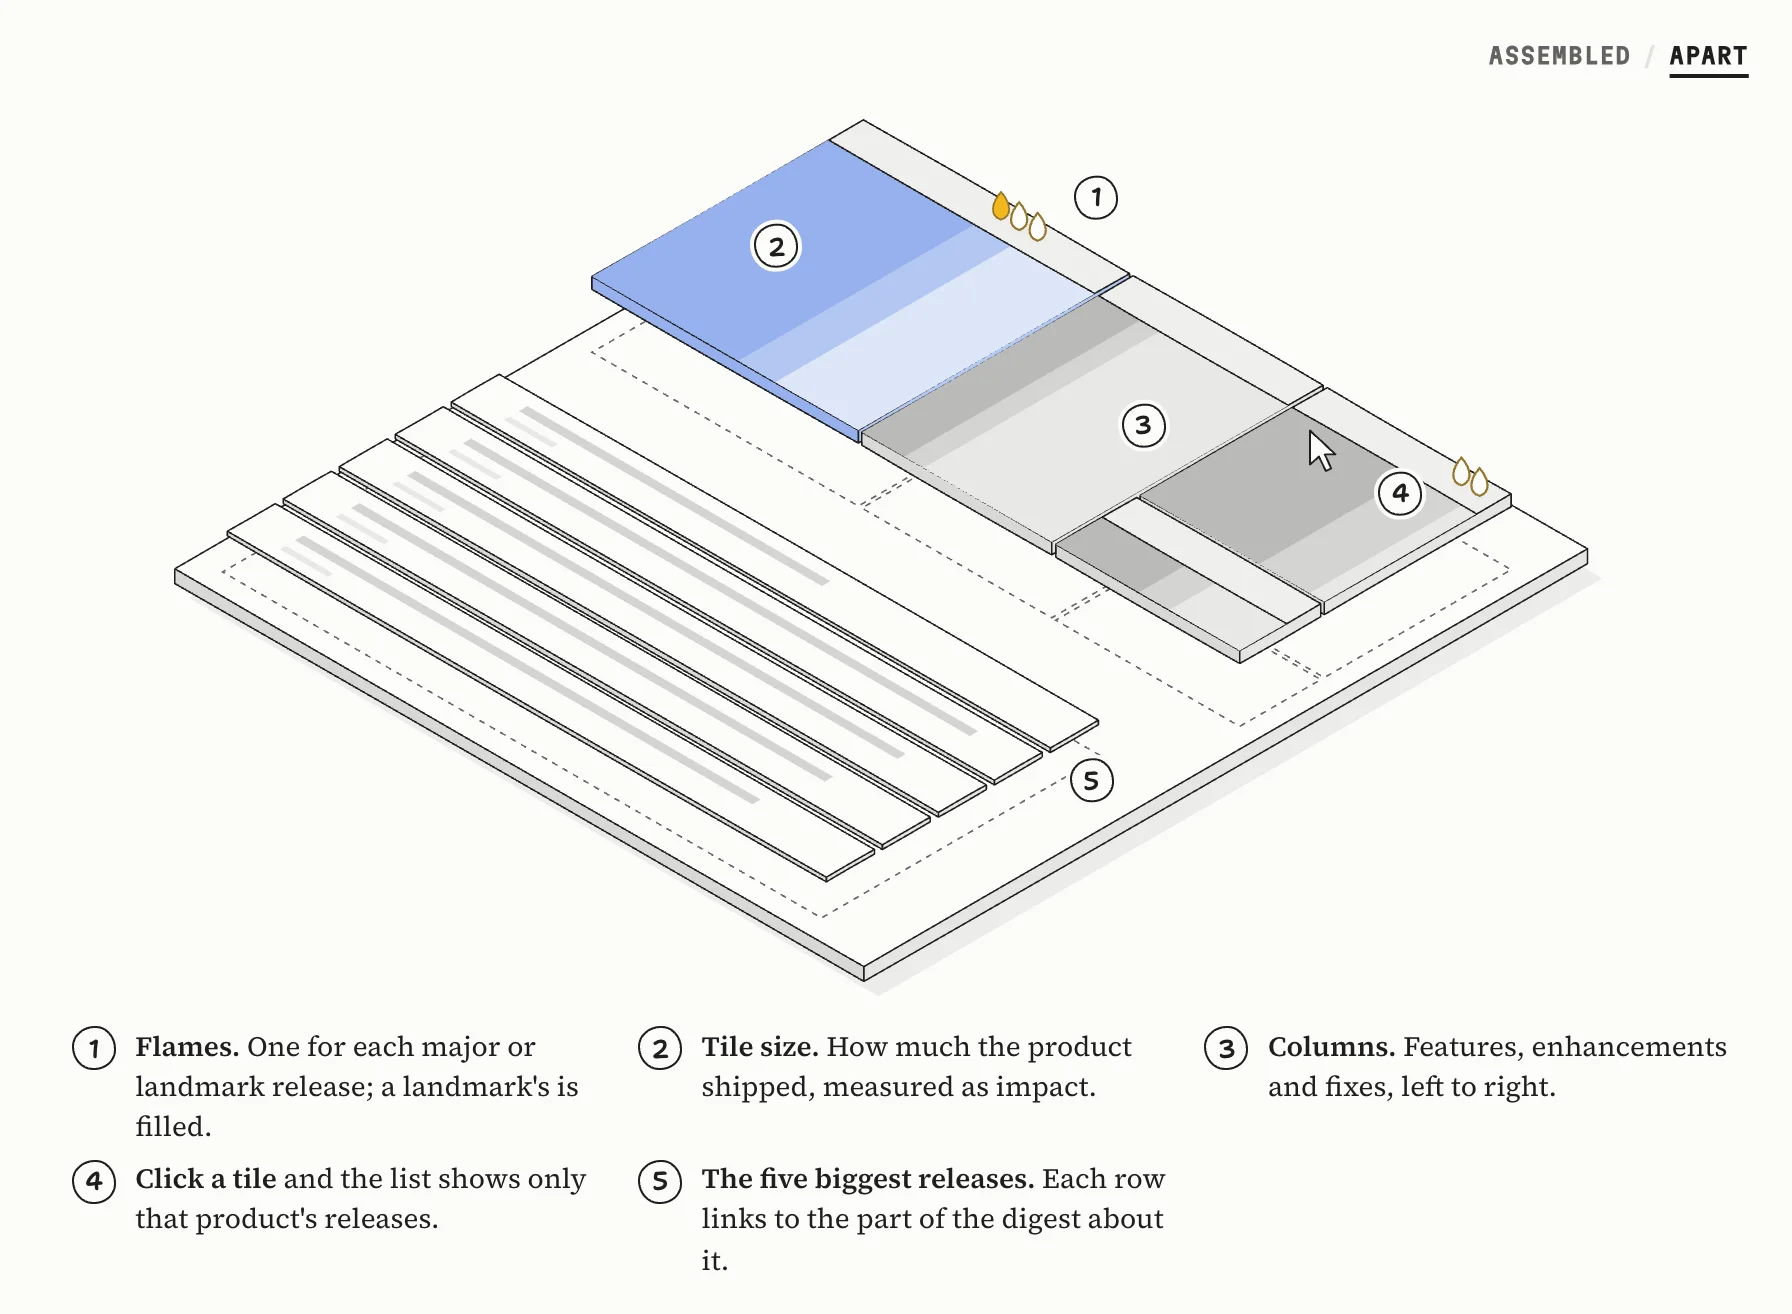
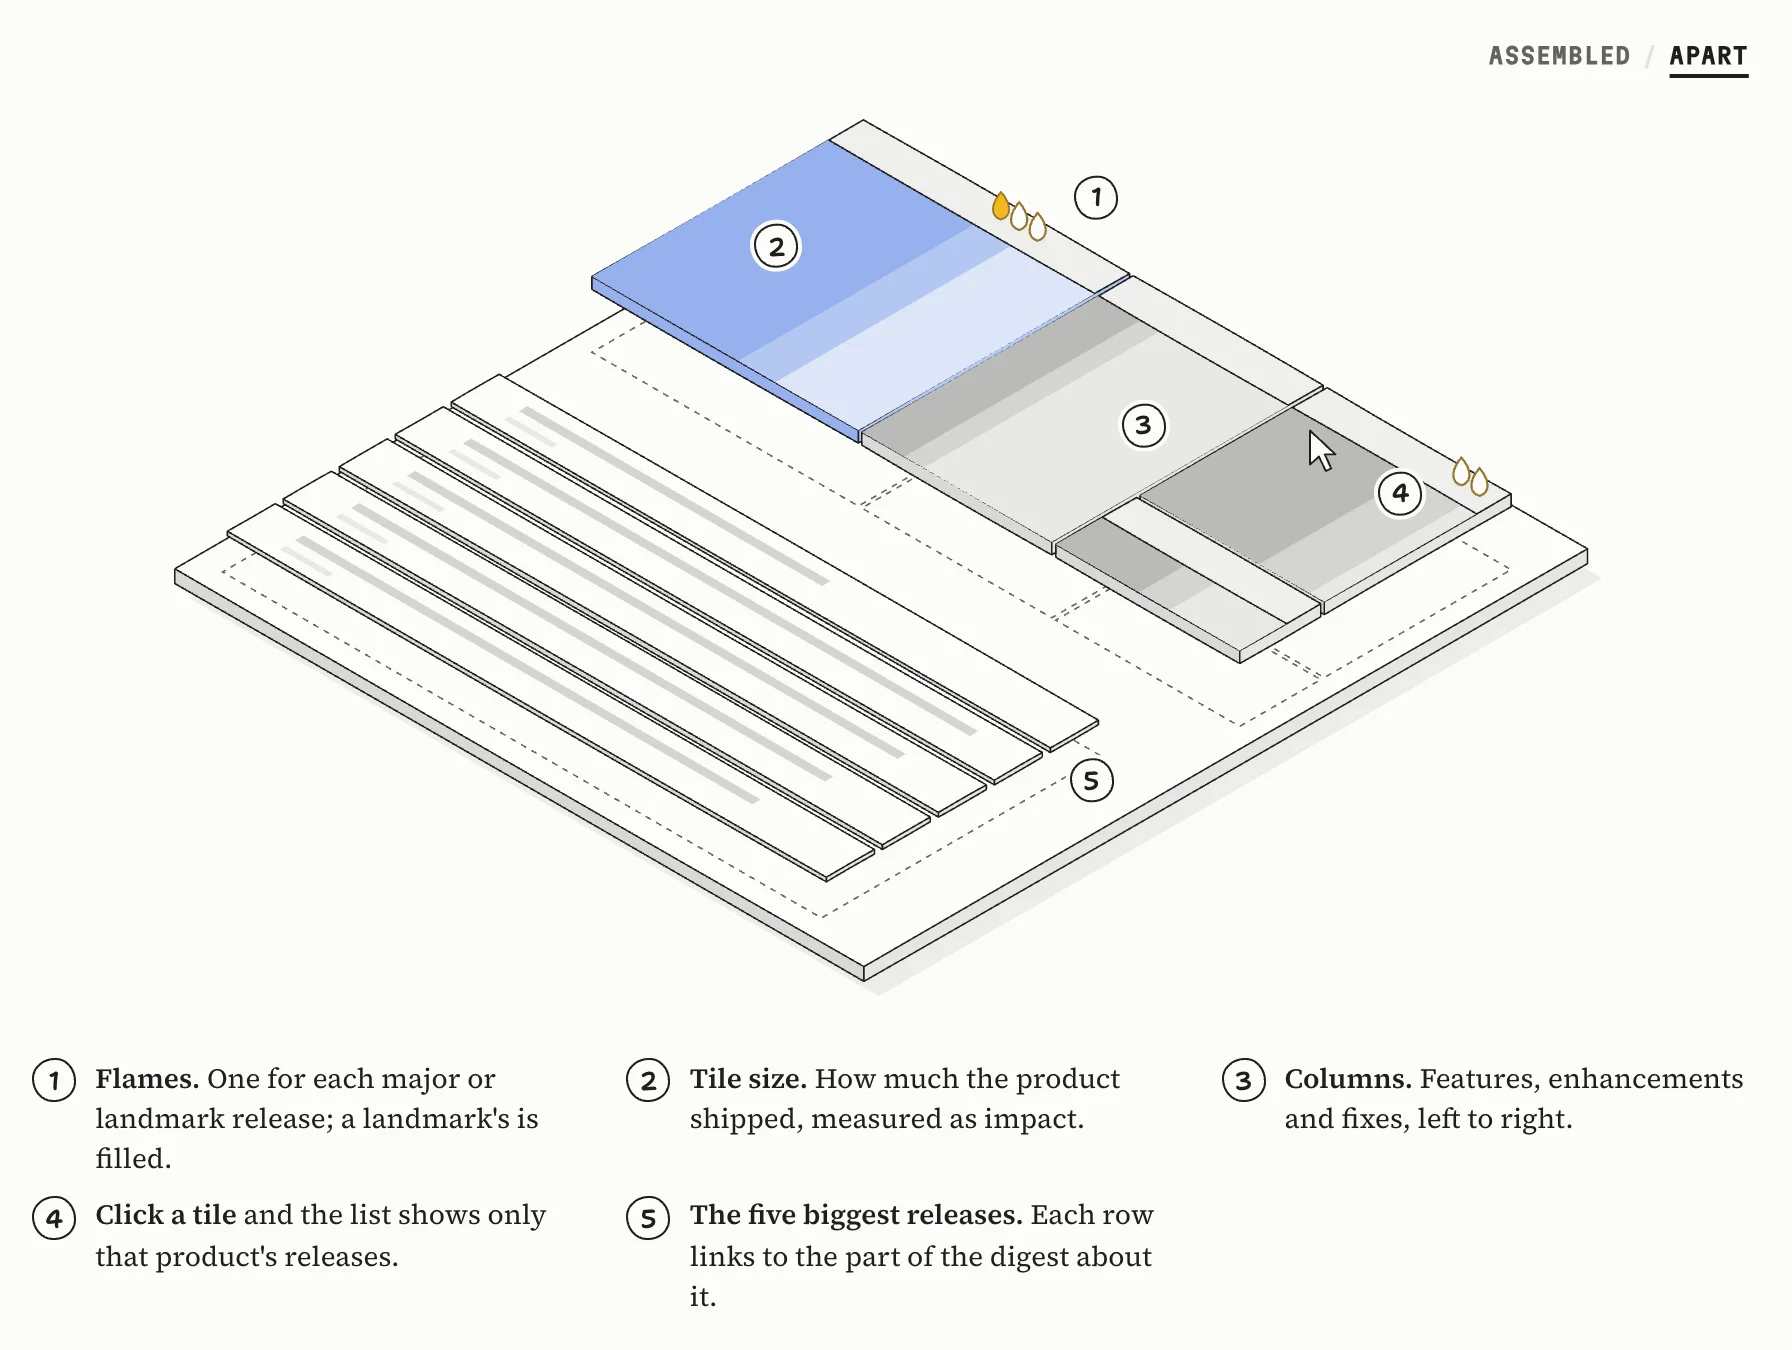
Give the keyed legend its own spacing back from the chapter list rule

diff --git a/assets/components.html b/assets/components.html
@@ -137,7 +137,7 @@ h1 {
   .ch h2 { position: relative; }
   .ch h2 .n { position: absolute; right: calc(100% + 1rem); top: 0.45rem; }
 }
-.ch ul, .ch ol:not(.timeline):not(.steps) { margin-block: 0; padding-left: 1.25rem; display: grid; gap: 0.35rem; }
+.ch ul, .ch ol:not(.timeline):not(.steps):not(.keys) { margin-block: 0; padding-left: 1.25rem; display: grid; gap: 0.35rem; }
 
 /* ── figures (shared) ───────────────────────────────── */
 /* A figure gets more room above and below than a paragraph, so it reads as its own block. Its caption
@@ -449,7 +449,7 @@ figcaption a { color: inherit; }
   .hs .tip, .hs.left .tip { top: calc(100% + 2px); left: 50%; right: auto; max-width: min(15rem, 86cqw); transform: translateX(calc(-1 * var(--x))); }
 }
 .hs:is(:hover, :focus-visible) { z-index: 3; }
-.keys { list-style: none; margin: 0.9rem 0 0; padding: 0; display: grid; grid-template-columns: repeat(auto-fit, minmax(15rem, 1fr)); gap: 0.5rem 1.75rem; counter-reset: key; font: 0.875rem/1.45 var(--font-display); }
+.keys { list-style: none; margin: 1rem 0 0; padding: 0; display: grid; grid-template-columns: repeat(auto-fit, minmax(15rem, 1fr)); gap: 0.5rem 1.75rem; counter-reset: key; font: 0.875rem/1.45 var(--font-display); }
 .keys li { counter-increment: key; display: grid; grid-template-columns: 22px minmax(0, 1fr); gap: 0.6rem; align-items: start; margin: -0.25rem -0.4rem; padding: 0.25rem 0.4rem; border-radius: 6px; transition: background 0.15s; }
 .keys li::before { content: attr(data-k); margin-top: 0.05rem; }
 .keys li.on { background: color-mix(in oklab, var(--mark) 9%, var(--paper)); }

diff --git a/assets/template.html b/assets/template.html
@@ -151,7 +151,7 @@ h1 {
   .ch h2 { position: relative; }
   .ch h2 .n { position: absolute; right: calc(100% + 1rem); top: 0.45rem; }
 }
-.ch ul, .ch ol:not(.timeline):not(.steps) { margin-block: 0; padding-left: 1.25rem; display: grid; gap: 0.35rem; }
+.ch ul, .ch ol:not(.timeline):not(.steps):not(.keys) { margin-block: 0; padding-left: 1.25rem; display: grid; gap: 0.35rem; }
 
 /* ── figures (shared) ───────────────────────────────── */
 /* A figure gets more room above and below than a paragraph, so it reads as its own block. Its caption
@@ -463,7 +463,7 @@ figcaption a { color: inherit; }
   .hs .tip, .hs.left .tip { top: calc(100% + 2px); left: 50%; right: auto; max-width: min(15rem, 86cqw); transform: translateX(calc(-1 * var(--x))); }
 }
 .hs:is(:hover, :focus-visible) { z-index: 3; }
-.keys { list-style: none; margin: 0.9rem 0 0; padding: 0; display: grid; grid-template-columns: repeat(auto-fit, minmax(15rem, 1fr)); gap: 0.5rem 1.75rem; counter-reset: key; font: 0.875rem/1.45 var(--font-display); }
+.keys { list-style: none; margin: 1rem 0 0; padding: 0; display: grid; grid-template-columns: repeat(auto-fit, minmax(15rem, 1fr)); gap: 0.5rem 1.75rem; counter-reset: key; font: 0.875rem/1.45 var(--font-display); }
 .keys li { counter-increment: key; display: grid; grid-template-columns: 22px minmax(0, 1fr); gap: 0.6rem; align-items: start; margin: -0.25rem -0.4rem; padding: 0.25rem 0.4rem; border-radius: 6px; transition: background 0.15s; }
 .keys li::before { content: attr(data-k); margin-top: 0.05rem; }
 .keys li.on { background: color-mix(in oklab, var(--mark) 9%, var(--paper)); }

diff --git a/examples/weekly-digests/post-field-notes.html b/examples/weekly-digests/post-field-notes.html
@@ -136,7 +136,7 @@ h1 {
   .ch h2 { position: relative; }
   .ch h2 .n { position: absolute; right: calc(100% + 1rem); top: 0.45rem; }
 }
-.ch ul, .ch ol:not(.timeline):not(.steps) { margin-block: 0; padding-left: 1.25rem; display: grid; gap: 0.35rem; }
+.ch ul, .ch ol:not(.timeline):not(.steps):not(.keys) { margin-block: 0; padding-left: 1.25rem; display: grid; gap: 0.35rem; }
 
 /* ── figures (shared) ───────────────────────────────── */
 /* A figure gets more room above and below than a paragraph, so it reads as its own block. Its caption
@@ -448,7 +448,7 @@ figcaption a { color: inherit; }
   .hs .tip, .hs.left .tip { top: calc(100% + 2px); left: 50%; right: auto; max-width: min(15rem, 86cqw); transform: translateX(calc(-1 * var(--x))); }
 }
 .hs:is(:hover, :focus-visible) { z-index: 3; }
-.keys { list-style: none; margin: 0.9rem 0 0; padding: 0; display: grid; grid-template-columns: repeat(auto-fit, minmax(15rem, 1fr)); gap: 0.5rem 1.75rem; counter-reset: key; font: 0.875rem/1.45 var(--font-display); }
+.keys { list-style: none; margin: 1rem 0 0; padding: 0; display: grid; grid-template-columns: repeat(auto-fit, minmax(15rem, 1fr)); gap: 0.5rem 1.75rem; counter-reset: key; font: 0.875rem/1.45 var(--font-display); }
 .keys li { counter-increment: key; display: grid; grid-template-columns: 22px minmax(0, 1fr); gap: 0.6rem; align-items: start; margin: -0.25rem -0.4rem; padding: 0.25rem 0.4rem; border-radius: 6px; transition: background 0.15s; }
 .keys li::before { content: attr(data-k); margin-top: 0.05rem; }
 .keys li.on { background: color-mix(in oklab, var(--mark) 9%, var(--paper)); }

diff --git a/examples/weekly-digests/post.html b/examples/weekly-digests/post.html
@@ -136,7 +136,7 @@ h1 {
   .ch h2 { position: relative; }
   .ch h2 .n { position: absolute; right: calc(100% + 1rem); top: 0.45rem; }
 }
-.ch ul, .ch ol:not(.timeline):not(.steps) { margin-block: 0; padding-left: 1.25rem; display: grid; gap: 0.35rem; }
+.ch ul, .ch ol:not(.timeline):not(.steps):not(.keys) { margin-block: 0; padding-left: 1.25rem; display: grid; gap: 0.35rem; }
 
 /* ── figures (shared) ───────────────────────────────── */
 /* A figure gets more room above and below than a paragraph, so it reads as its own block. Its caption
@@ -448,7 +448,7 @@ figcaption a { color: inherit; }
   .hs .tip, .hs.left .tip { top: calc(100% + 2px); left: 50%; right: auto; max-width: min(15rem, 86cqw); transform: translateX(calc(-1 * var(--x))); }
 }
 .hs:is(:hover, :focus-visible) { z-index: 3; }
-.keys { list-style: none; margin: 0.9rem 0 0; padding: 0; display: grid; grid-template-columns: repeat(auto-fit, minmax(15rem, 1fr)); gap: 0.5rem 1.75rem; counter-reset: key; font: 0.875rem/1.45 var(--font-display); }
+.keys { list-style: none; margin: 1rem 0 0; padding: 0; display: grid; grid-template-columns: repeat(auto-fit, minmax(15rem, 1fr)); gap: 0.5rem 1.75rem; counter-reset: key; font: 0.875rem/1.45 var(--font-display); }
 .keys li { counter-increment: key; display: grid; grid-template-columns: 22px minmax(0, 1fr); gap: 0.6rem; align-items: start; margin: -0.25rem -0.4rem; padding: 0.25rem 0.4rem; border-radius: 6px; transition: background 0.15s; }
 .keys li::before { content: attr(data-k); margin-top: 0.05rem; }
 .keys li.on { background: color-mix(in oklab, var(--mark) 9%, var(--paper)); }

diff --git a/CHANGELOG.md b/CHANGELOG.md
@@ -34,6 +34,7 @@ Until the first release, changes are recorded under [Unreleased].
 
 ### Fixed
 
+- A keyed figure's legend lost its own spacing to the chapter's list rule (no gap above it, an indent, rows packed tight); the list rule now leaves the legend alone.
 - Image paths in `strip` specs are relative to the spec, as they already were in `anatomy` specs; both now share one rule, and a path that only resolves from the page still renders, with a warning.
 - `gather.mjs` no longer looks up placeholder references such as `owner/repo#123` in PR bodies.
 - `workdir.mjs --help` prints its usage instead of making a folder called `--help`.
